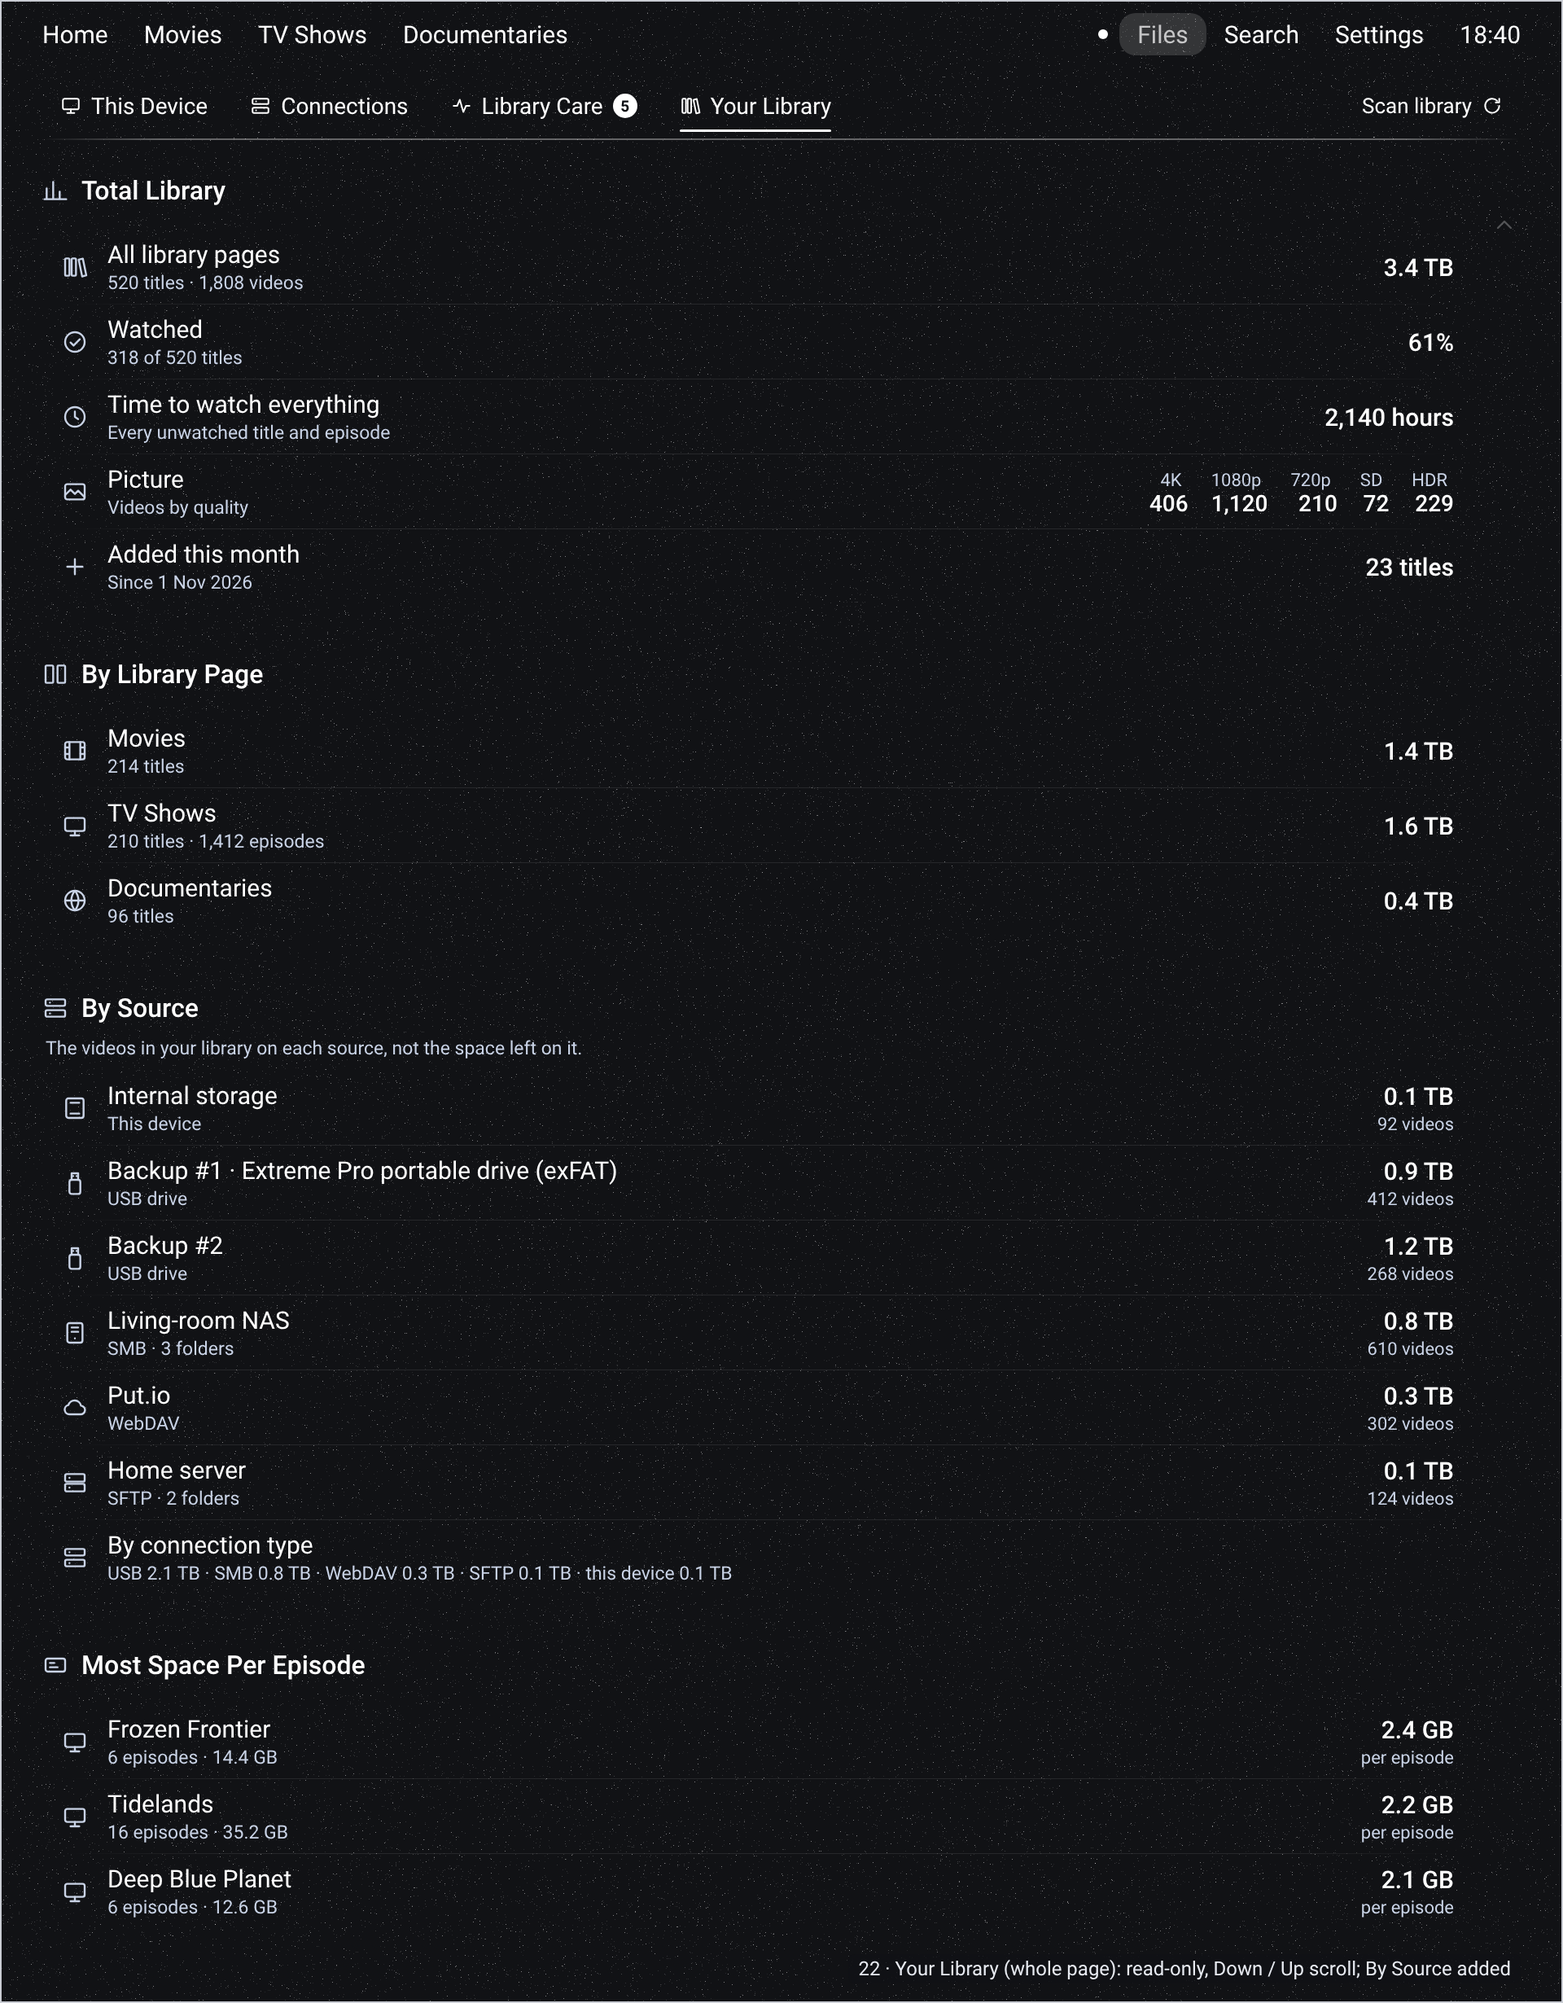
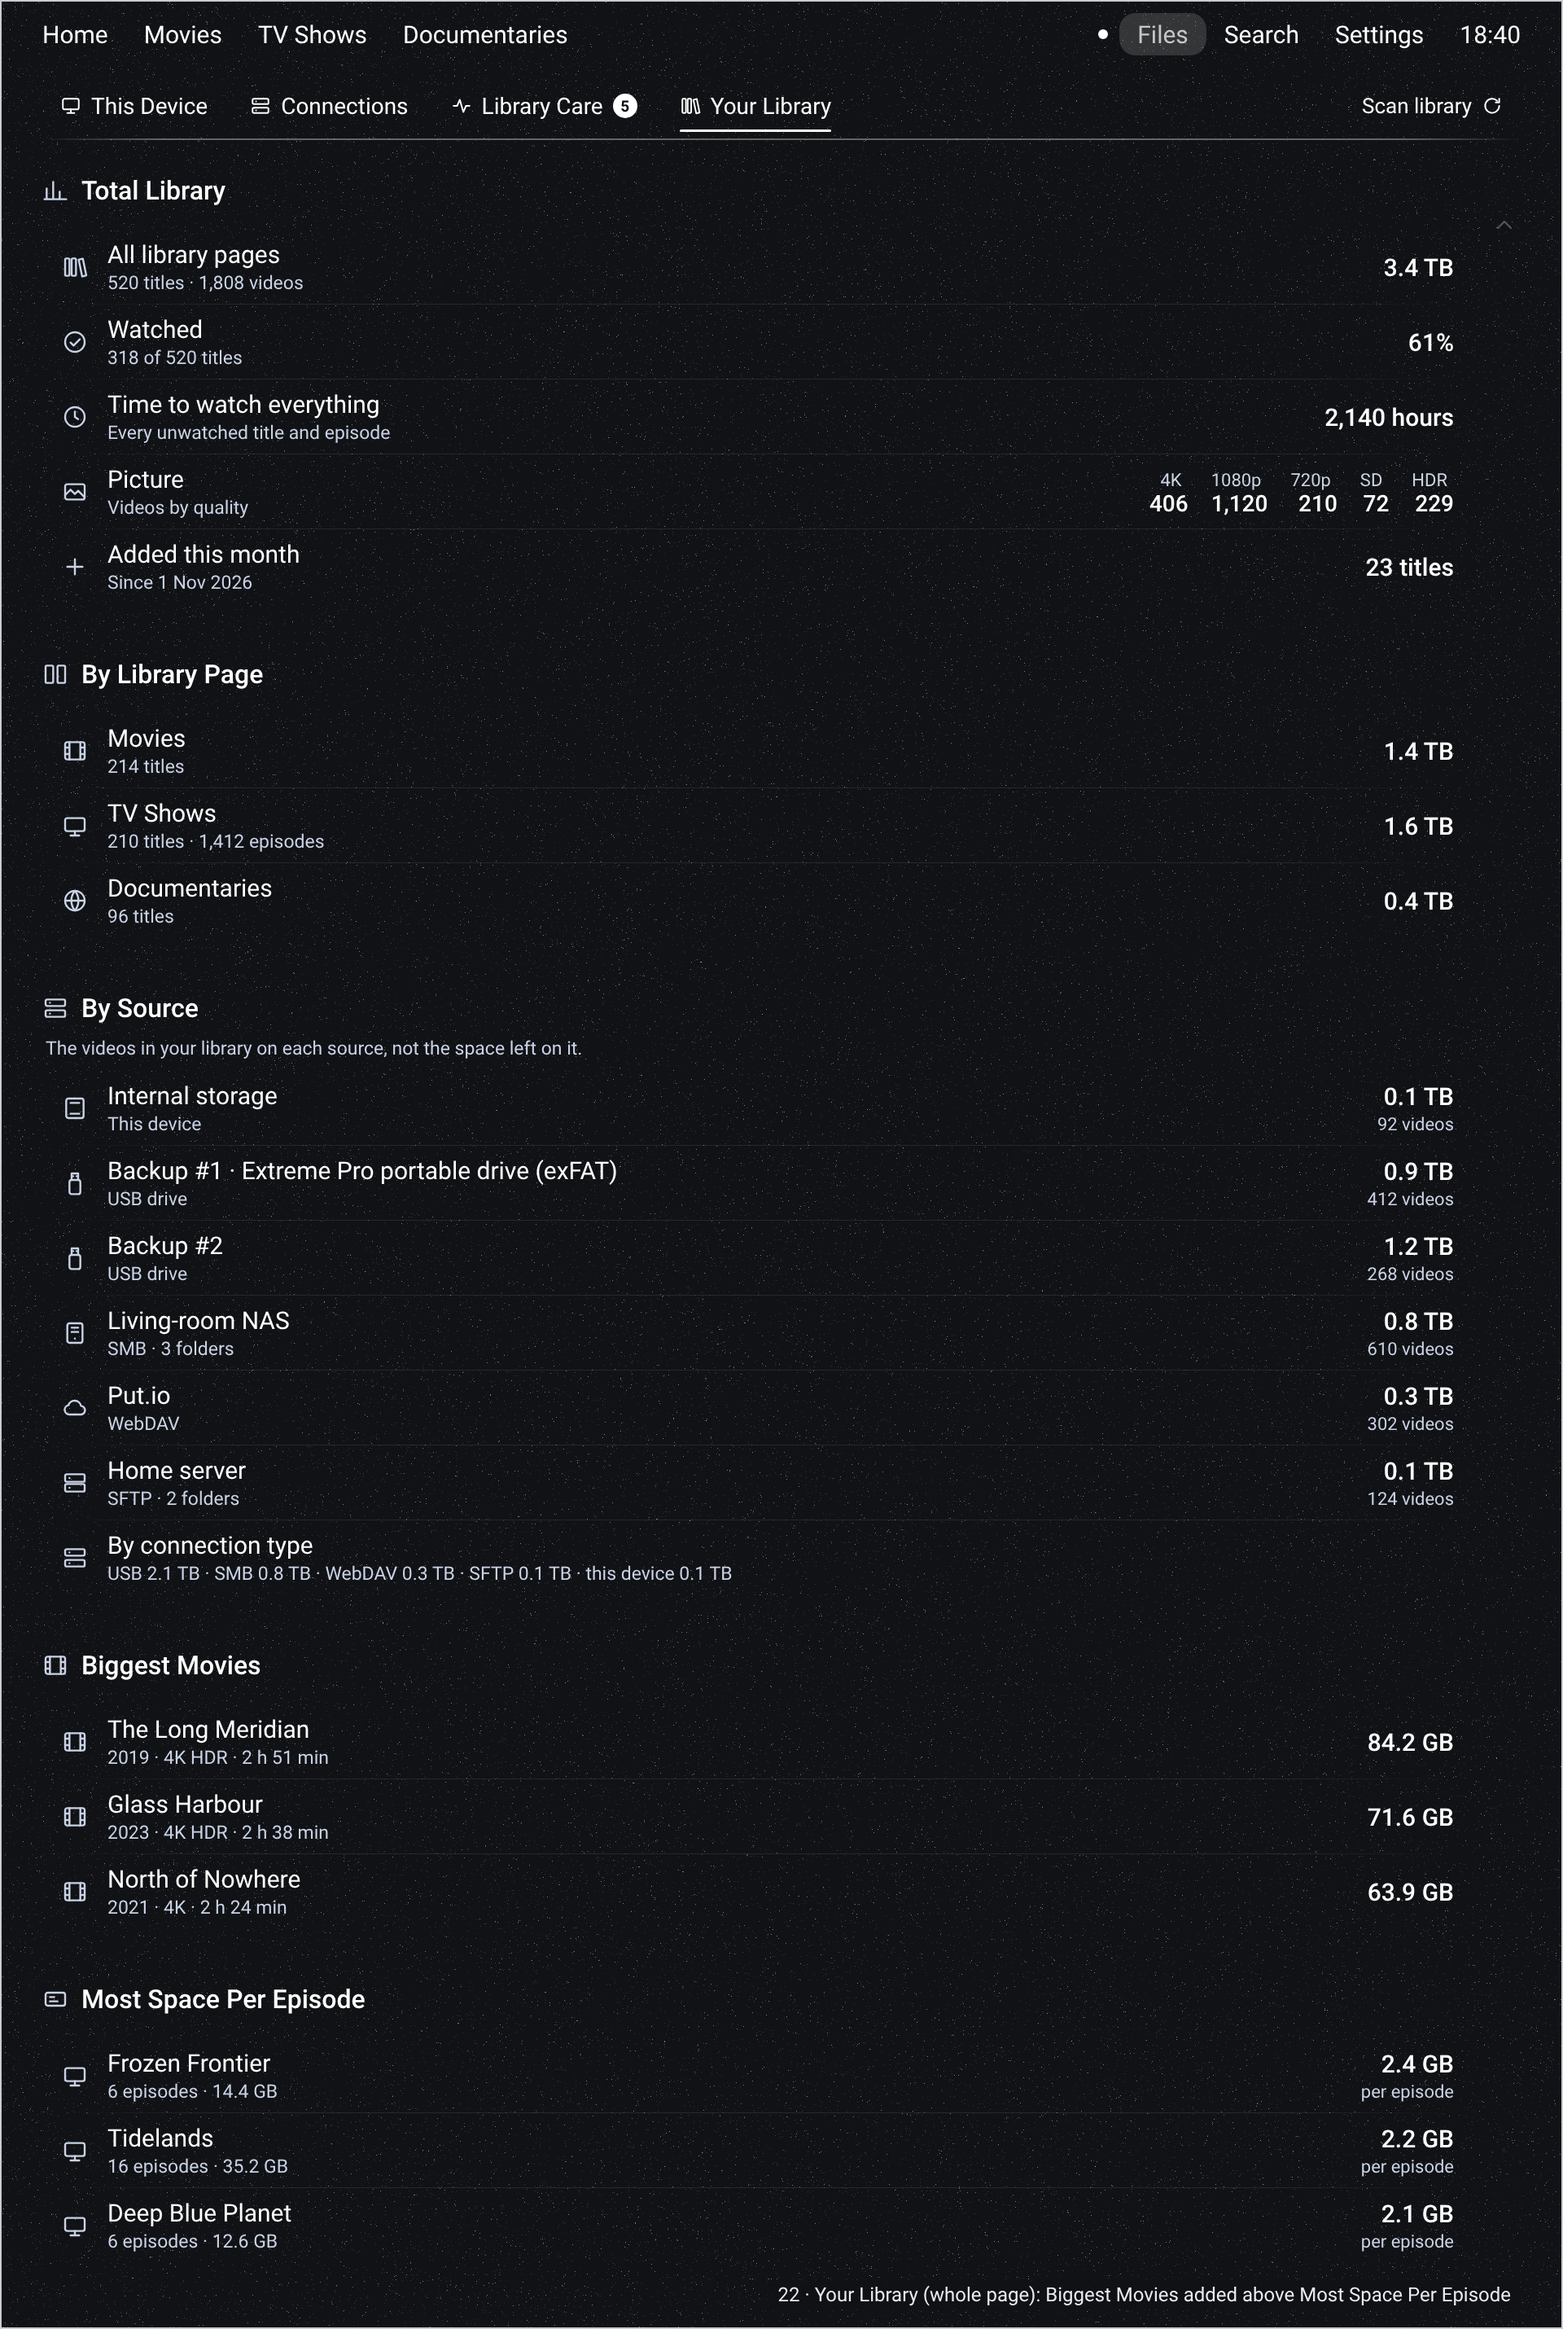
Files round 4: Biggest Movies proposed; bug M7

diff --git a/docs/design/proposals/files-v2/render.js b/docs/design/proposals/files-v2/render.js
@@ -891,6 +891,10 @@ function f22() {
     ${stat(I.cloud, 'Put.io', 'WebDAV', '0.3 TB', '302 videos')}
     ${stat(I.server, 'Home server', 'SFTP · 2 folders', '0.1 TB', '124 videos')}
     ${stat(I.conn, 'By connection type', 'USB 2.1 TB · SMB 0.8 TB · WebDAV 0.3 TB · SFTP 0.1 TB · this device 0.1 TB', '', '', true)}
+    ${hd(I.film, 'Biggest Movies')}
+    ${stat(I.film, 'The Long Meridian', '2019 · 4K HDR · 2 h 51 min', '84.2 GB')}
+    ${stat(I.film, 'Glass Harbour', '2023 · 4K HDR · 2 h 38 min', '71.6 GB')}
+    ${stat(I.film, 'North of Nowhere', '2021 · 4K · 2 h 24 min', '63.9 GB', '', true)}
     ${hd(I.space, 'Most Space Per Episode')}
     ${stat(I.tv, 'Frozen Frontier', '6 episodes · 14.4 GB', '2.4 GB', 'per episode')}
     ${stat(I.tv, 'Tidelands', '16 episodes · 35.2 GB', '2.2 GB', 'per episode')}
@@ -898,9 +902,9 @@ function f22() {
     </div>`;
   return bar() + tabs('Your Library', null) + h
     + `<div class="arrow faint" style="top:260px">${svg(I.up, 32)}</div>`
-    + '<div class="cap2">22 · Your Library (whole page): read-only, Down / Up scroll; By Source added</div>';
+    + '<div class="cap2">22 · Your Library (whole page): Biggest Movies added above Most Space Per Episode</div>';
 }
-ROUND23.push(['22-your-library', f22, 2460]);
+ROUND23.push(['22-your-library', f22, 2860]);
 
 
 // ---------- Round 3b: recent scans focusable, scan details ----------

diff --git a/docs/design/pages/FILES.md b/docs/design/pages/FILES.md
@@ -168,10 +168,13 @@ and backup-nas.local found on the network; empty folders; long file and title na
 Read-only, nothing focusable; Down / Up scroll; arrows as above. Faint row lines (a long read-only list of facts).
 - **Total Library:** All library pages ("520 titles · 1,808 videos", size) · Watched ("318 of 520 titles", %) · Time
   to watch everything (hours) · Picture (4K · 1080p · 720p · SD · HDR counts) · Added this month.
-- **By Library Page:** one row per library page with titles (episodes for TV) and size.
+- **By Library Page:** one row per library page, built-in or the owner's own, every one with its size on the right
+  (bug M7: the third page showed none).
 - **By Source:** note "The videos in your library on each source, not the space left on it."; one row per drive or
   connection (type, folders) with size and video count; last row **By connection type** (USB · SMB · WebDAV · SFTP ·
   this device).
+- **Biggest Movies** (proposed 26 Nov, `tv/22` v2, awaiting the owner): the three largest films, "2019 · 4K HDR ·
+  2 h 51 min", size on the right.
 - **Most Space Per Episode:** the top three shows, "6 episodes · 14.4 GB", "2.4 GB per episode".
 
 ## Never opens from Files

diff --git a/docs/0.158/BRIEF_0158_C.md b/docs/0.158/BRIEF_0158_C.md
@@ -52,6 +52,10 @@ finished to its sheet (every action pressed and rendered) before the next:
      finished without a match go there; while look-ups are pending, the Not matched page says "Matching N new titles:
      they're not listed while Supernova is still looking them up." Test: a freshly scanned file is not counted as Not
      matched until its look-up has ended.
+   - **M7. Your Library › By Library Page: the third page has no value on the right (owner, 26 Nov, 0.158.9 on the
+     Shield).** Movies and TV Shows show their size on the right; Documentaries shows only its second line ("36 titles ·
+     133 GB") and nothing on the right. Every library page, built-in or the owner's own, uses the same row with its
+     size on the right. Test: a third, user-made library page renders its value like Movies.
    - **M6. Renaming a connection doesn't save (owner, 26 Nov).** A connection renamed in its edit form keeps its old
      name in Connections and Library Care. Save the new name and show it everywhere the connection is named
      (Connections, Library Care, scans, Missing files) at once. Test: rename, leave Files, come back: the new name shows.
